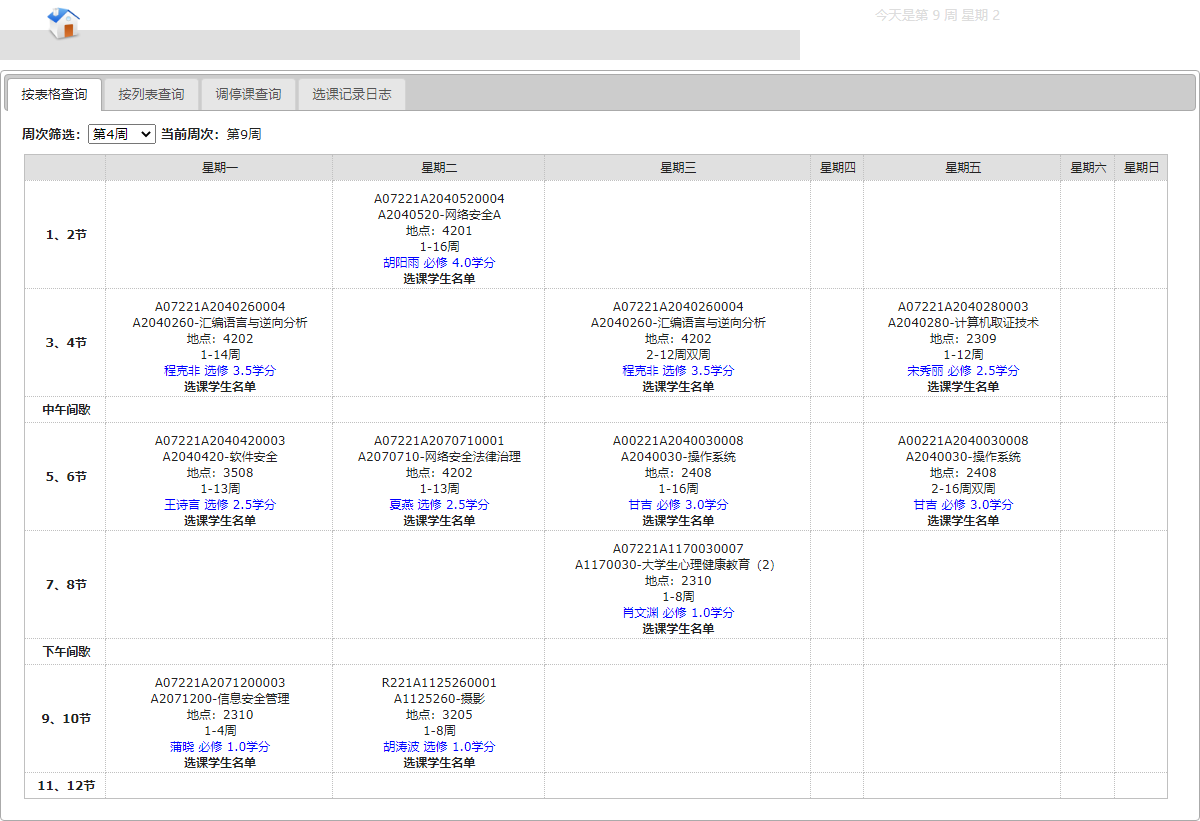
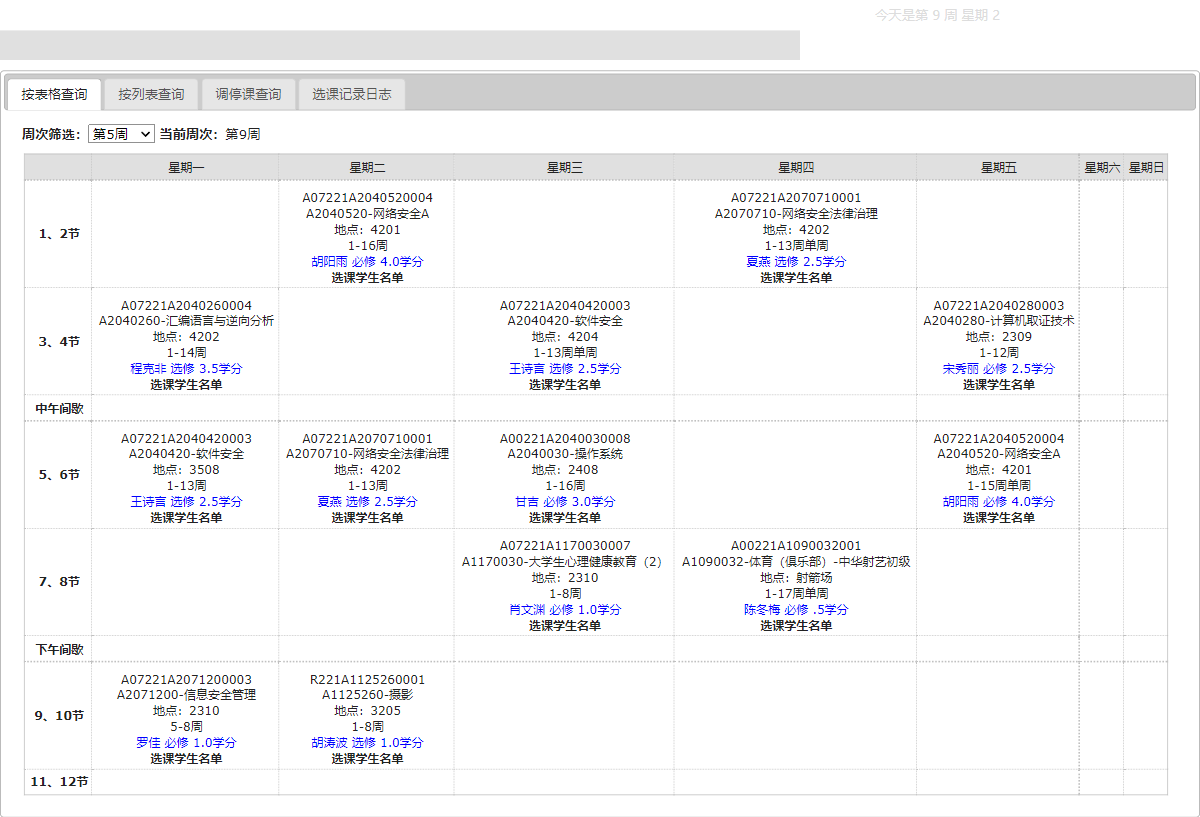
none

diff --git a/getData.js b/getData.js
@@ -3,117 +3,147 @@ const path = require("path");
 const fs = require("fs");
 const weekstn = require("./tools");
 const { getPng } = require('./getPng');
-async function getCourse(number,style="1", method = "2", week = "0", colorSChema = "default", colorJson = "defaule") {
-  const browser = await puppeteer.launch();
-  const page = await browser.newPage();
+async function getCourse(number, style = "1", method = "2", week = "0", colorSChema = "default", colorJson = "defaule") {
   try {
-    const targetUrl = 'http://jwzx.cqupt.edu.cn/kebiao/kb_stu.php?xh=' + number
-    await page.goto(targetUrl)
-    if(page.url != targetUrl){
-        await page.waitForNavigation();
-        await page.waitForSelector("#username")
-        await page.evaluate(()=>{
+    fs.statSync("./courseData/" + number + ".txt")
+    let courseData = fs.readFileSync("./courseData/" + number + ".txt")
+    courseData = JSON.parse(courseData)
+    if (courseData.week === week && method === "1") {
+      getPng(number, style)
+    } else {
+      const browser = await puppeteer.launch()
+      const page = await browser.newPage();
+      try {
+        const targetUrl = 'http://jwzx.cqupt.edu.cn/kebiao/kb_stu.php?xh=' + number
+        let cookieData = getCookie()
+        if (cookieData) {
+          cookieData = JSON.parse(cookieData)
+          await page.setCookie(...cookieData)
+        }
+        await page.goto(targetUrl)
+        console.log(page.url())
+        if (page.url() != targetUrl) {
+          console.log(page.url())
+          await page.waitForNavigation();
+          await page.waitForSelector("#username")
+          await page.evaluate(() => {
             document.querySelector("#username").value = "1669570"
             document.querySelector("#password").value = "Qaz!359893623"
             document.querySelector("#rememberMe").click()
             document.querySelector("#login_submit").click()
+          })
+          await page.waitForNavigation();
+          let cookieData = await page.cookies()
+          fs.writeFileSync("./CookieData/cookie.json", JSON.stringify(cookieData))
+        }
+      } catch (error) {
+        browser.close()
+        throw "ERROR:教务在线挂掉啦,呜呜呜"
+      }
+      if (method === "1") {
+        let CourseData = {};
+        CourseData.courses = [];
+        await page.waitForSelector("#zcGuolv")
+        const form = await page.evaluate(() =>
+          document.querySelector("form").textContent
+        )
+        let reg = /当前周次：第(\d)周/
+        week = reg.exec(form)[1]  // 获取当前是第几周
+        CourseData.week = week;
+        await page.waitForSelector("#zcGuolv")
+        await page.select("#zcGuolv", week)
+        await page.waitForSelector(".kbTd")
+        let coureseDataStr;
+        let allCourseListData = await page.$$eval("#stuPanel tr", ele => ele.map(
+          item => {
+            if (item.innerHTML.length > 300) {
+              return item.innerHTML
+            }
+          }
+        ))
+        allCourseListData = allCourseListData.filter(item => item)
+        allCourseListData = allCourseListData.map(item => {
+          return item.split("<td").map((item) => {
+            if (item.length < 8) {
+              return ""
+            } else {
+              return item
+            }
+          })
         })
-        await page.waitForNavigation();
-    }
-  } catch (error) {
-    browser.close()
-    throw "ERROR:教务在线挂掉啦,呜呜呜"
-  }
-  if (method === "1") {
-    let CourseData = {};
-    CourseData.courses = [];
-    await page.waitForSelector("#zcGuolv")
-    const form = await page.evaluate(() =>
-      document.querySelector("form").textContent
-    )
-    let reg = /当前周次：第(\d)周/
-    week = reg.exec(form)[1]  // 获取当前是第几周
-    CourseData.week = week;
-    await page.waitForSelector("#zcGuolv")
-    await page.select("#zcGuolv", week)
-    await page.waitForSelector(".kbTd")
-    let coureseDataStr;
-    let allCourseListData = await page.$$eval("#stuPanel tr", ele => ele.map(
-      item => {
-        if (item.innerHTML.length > 300) {
-          return item.innerHTML
+        allCourseListData.map(item => {
+          item.splice(0, 2)
+        })
+        let temCourseData = new Array();
+        for (let i = 0; i < 6; i++) {
+          temCourseData[i] = new Array();
+          for (let j = 0; j < 7; j++) {
+            temCourseData[i][j] = new Array();
+          }
         }
-      }
-    ))
-    allCourseListData = allCourseListData.filter(item => item)
-    allCourseListData = allCourseListData.map(item => {
-      return item.split("<td").map((item) => {
-        if (item.length < 8) {
-          return ""
-        } else {
-          return item
-        }
-      })
-    })
-    allCourseListData.map(item => {
-      item.splice(0, 2)
-    })
-    let temCourseData = new Array();
-    for (let i = 0; i < 6; i++) {
-      temCourseData[i] = new Array();
-      for (let j = 0; j < 7; j++) {
-        temCourseData[i][j] = new Array();
-      }
-    }
-    allCourseListData.forEach((item, index) => {
-      let regCourseName = /.{8}-(.*)\<br\>/
-      let regCoursePlace = /地点：(.*) /
-      let regCourseWeeks = /#FF0000"\>(.*)<\/font>/
-      let regCourseWhen = /\t<br\>(.*)<font/
-      for (let i = 0; i < item.length; i++) {
-        if (item != "") {
-          item[i] = item[i].split("kbTd")
-          for (let j = 0; j < item[i].length; j++) {
-            if (item[i][j] != "" && j >= 1) {
-              temCourseData[index][i][j - 1] = {
-                "CourseName": regCourseName.exec(item[i][j])[1],
-                "CoursePlace": regCoursePlace.exec(item[i][j])[1],
-                "CourseWeeks": regCourseWeeks.exec(item[i][j])[1],
-                "regCourseWhen": regCourseWhen.exec(item[i][j])[1]
+        allCourseListData.forEach((item, index) => {
+          let regCourseName = /.{8}-(.*)\<br\>/
+          let regCoursePlace = /地点：(.*) /
+          let regCourseWeeks = /#FF0000"\>(.*)<\/font>/
+          let regCourseWhen = /\t<br\>(.*)<font/
+          for (let i = 0; i < item.length; i++) {
+            if (item != "") {
+              item[i] = item[i].split("kbTd")
+              for (let j = 0; j < item[i].length; j++) {
+                if (item[i][j] != "" && j >= 1) {
+                  temCourseData[index][i][j - 1] = {
+                    "CourseName": regCourseName.exec(item[i][j])[1],
+                    "CoursePlace": regCoursePlace.exec(item[i][j])[1],
+                    "CourseWeeks": regCourseWeeks.exec(item[i][j])[1],
+                    "regCourseWhen": regCourseWhen.exec(item[i][j])[1]
+                  }
+                }
               }
             }
           }
-        }
-      }
-    })
-    CourseData.courses = temCourseData
-    for (let i = 0; i < temCourseData.length; i++) {
-      for (let k = 0; k < temCourseData[i].length; k++) {
+        })
+        CourseData.courses = temCourseData
+        for (let i = 0; i < temCourseData.length; i++) {
+          for (let k = 0; k < temCourseData[i].length; k++) {
 
-        if (temCourseData[i][k].length != 0) {
-          temCourseData[i][k].map((item, index) => {
-            temCourseData[i][k][index].regCourseWhen = weekstn.weekStrToNum(temCourseData[i][k][index].regCourseWhen)
-          })
+            if (temCourseData[i][k].length != 0) {
+              temCourseData[i][k].map((item, index) => {
+                temCourseData[i][k][index].regCourseWhen = weekstn.weekStrToNum(temCourseData[i][k][index].regCourseWhen)
+              })
+            }
+          }
         }
+        fs.writeFileSync("./courseData/" + number + ".txt", JSON.stringify(CourseData))
+        browser.close()
+        await getPng(number, style)
+        return CourseData
+      } else if (method === "2") {
+        await page.waitForSelector("#zcGuolv")
+        await page.select("#zcGuolv", week)
+        await page.screenshot({
+          path: "./img/" + number + ".png",
+          fullPage: true
+        })
+      } else {
+        browser.close()
+        throw "ERROR:错误的选项哟"
       }
+      browser.close()
     }
-    fs.writeFileSync("./courseData/"+number+".txt",JSON.stringify(CourseData))
-    getPng(number,style,browser)
-    browser.close()
-    return CourseData
-  } else if (method === "2") {
-    await page.waitForSelector("#zcGuolv")
-    await page.select("#zcGuolv", week)
-    await page.screenshot({
-      path: "./img/" + number + ".png",
-      fullPage: true
-    })
-  } else {
-    browser.close()
-    throw "ERROR:错误的选项哟"
+  } catch (error) {
+    console.log(err)
   }
-  browser.close()
+
 }
+function getCookie() {
+  try {
+    fs.statSync("./CookieData/cookie.json")
+    return fs.readFileSync('./CookieData/cookie.json')
+  } catch (error) {
+    return false
+  }
+}
+
 module.exports = {
   getCourse
 }

diff --git a/qqRobot/ordeCli.js b/qqRobot/ordeCli.js
@@ -1,5 +1,5 @@
 function orderDeal(str) {
-    return str.split(" ")
+    return str.split(" ").filter(item => item)
 }
 function robotCli(data) {
     return new Promise(
@@ -26,13 +26,13 @@ function robotCli(data) {
                     orderOption.method = "1"
                 }
                 if (order.includes("-style")) {
-                    orderOption.style = orderOption.week = order[order.indexOf("-style") + 1]
+                    orderOption.style = order[order.indexOf("-style") + 1]
                 }
             } else {
                 throw "invalid choice \nexample:\nshow -number 学号 -jwzx -week n \n/将发送教务在线上第n周的课表/\nshow -number 学号 -table\n/发送本周课表/"
             }
             if(orderOption.number === 0){
-                throw "是使用因为里面的-噢"
+                throw "请使用'-number [学号] '输入您的学号噢"
             }
             resolve(orderOption)
         }

diff --git a/getPng.js b/getPng.js
@@ -1,10 +1,12 @@
 const puppeteer = require('puppeteer');
-async function getPng(number,style,browser){
-    const page = await browser.newPage()
+async function getPng(number,style){
+    let browser =await puppeteer.launch()
+    let page = await browser.newPage()
     try {
         await page.goto("http://127.0.0.1:3000?number="+number+"&style="+style)
     } catch (error) {
         console.log("服务器出错啦呜呜呜")
+        console.log(error)
     }
     await page.waitForSelector("body")
     await page.setViewport({
@@ -16,6 +18,7 @@ async function getPng(number,style,browser){
         fullPage: true
       })
     await browser.close()
+    return 
 }
 module.exports = {
     getPng

diff --git a/index.js b/index.js
@@ -18,18 +18,12 @@ client.on("message", e => {
       return
     }
     if(orderOption.method === "1"){ 
-      try {
-        let res = fs.statSync("./courseData/"+orderOption.number+".txt")
-        const browser = await puppeteer.launch();
-        await getPng(orderOption.number,orderOption.style,browser)
-      } catch (error) {
         try {
           await getData.getCourse(orderOption.number,orderOption.style,orderOption.method,orderOption.week)
         } catch (error) {
           e.reply(error)
           return
         }
-      }
     }else{
       try {
         await getData.getCourse(orderOption.number,orderOption.style,orderOption.method,orderOption.week)

diff --git a/view/index.html b/view/index.html
@@ -66,11 +66,11 @@
                     </div>
                     <div class="lesson">
                         <div class="lessonItem">11</div>
-                        <div><span>21:15</span><span>22:00</span></div>
+                        <div><span>21:40</span><span>21:35</span></div>
                     </div>
                     <div class="lesson">
                         <div class="lessonItem">12</div>
-                        <div><span>22:10</span><span>22:55</span></div>
+                        <div><span>21:45</span><span>22:30</span></div>
                     </div>
                 </div>
             </div>
